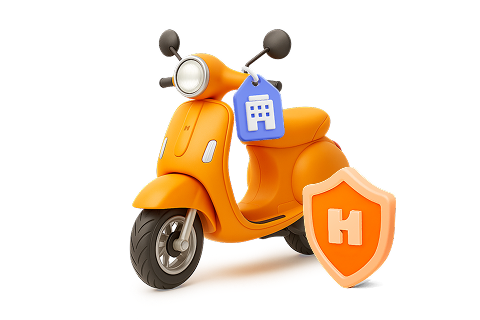
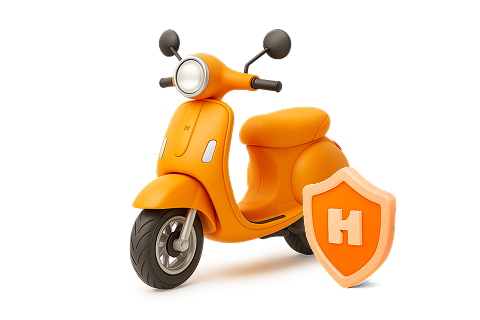
보험료 확인 관련 이미지 수정

Changed region(s): [[0.4688, 0.1875, 0.5938, 0.4688]]

diff --git a/src/index.html b/src/index.html
@@ -19802,6 +19802,7 @@
 								<li>25-09-16</li>
 								<li>25-09-17</li>
 								<li>25-09-25</li>
+								<li>25-11-17</li>
 							</ul>
 						</td>
 					</tr>
@@ -20921,6 +20922,7 @@
 								<li>25-09-03</li>
 								<li>25-09-18</li>
 								<li>25-10-20</li>
+								<li>25-11-17</li>
 							</ul>
 						</td>
 					</tr>
@@ -21987,6 +21989,7 @@
 								<li>25-09-05</li>
 								<li>25-09-25</li>
 								<li>25-10-17</li>
+								<li>25-11-17</li>
 							</ul>
 						</td>
 					</tr>
@@ -23260,6 +23263,7 @@
 								<li>25-09-01</li>
 								<li>25-09-12</li>
 								<li>25-10-17</li>
+								<li>25-11-17</li>
 							</ul>
 						</td>
 					</tr>
@@ -26530,6 +26534,7 @@
 									<li>25-09-01</li>
 									<li>25-09-05</li>
 									<li>25-10-20</li>
+									<li>25-11-17</li>
 								</ul>
 							</td>
 						</tr>
@@ -27532,6 +27537,7 @@
 									<li>25-10-20</li>
 									<li>25-11-10</li>
 									<li>25-11-13</li>
+									<li>25-11-17</li>
 								</ul>
 							</td>
 						</tr>
@@ -28581,6 +28587,7 @@
 									<li>25-09-22</li>
 									<li>25-11-10</li>
 									<li>25-11-13</li>
+									<li>25-11-17</li>
 								</ul>
 							</td>
 						</tr>

diff --git a/src/html/PR/LTCR/MPRLTCR13003000000.html b/src/html/PR/LTCR/MPRLTCR13003000000.html
@@ -50,7 +50,9 @@
 
 					<div class="guarantee_visuval">
 						<!-- s: 25-07-01 수정 -->
-						<img src="../../../images/content/ltcr/img_MPRLTCR13003000000.png" alt="배경이미지" aria-hidden="true">
+						<!-- s: 25-11-17 수정 -->
+						<img src="../../../images/content/prd/bg_intro18.png" alt="배경이미지" aria-hidden="true">
+						<!-- e: 25-11-17 수정 -->
 						<!-- e: 25-07-01 수정 -->
 						<div class="visual_msg ty2">
               <!-- (참고) 최종할인율 추후 확정 예정-->

diff --git a/src/html/PR/LTCT/MPRLTCT11003000000.html b/src/html/PR/LTCT/MPRLTCT11003000000.html
@@ -46,7 +46,9 @@
 
 					<div class="guarantee_visuval">
 						<!-- s: 25-07-01 -->
-						<img src="../../../images/content/ltct/img_MPRLTCT11003000000_01.png" alt="배경이미지" aria-hidden="true">
+						<!-- s: 25-11-17 수정 -->
+						<img src="../../../images/content/prd/bg_intro11.png" alt="배경이미지" aria-hidden="true">
+						<!-- e: 25-11-17 수정 -->
 						<!-- e: 25-07-01 -->
 						<!-- <div class="visual_msg">
 							<div class="msg_text">오프대비<br>최대 13% 할인</div>	

diff --git a/src/html/PR/LTCR/MPRLTCR12003000000.html b/src/html/PR/LTCR/MPRLTCR12003000000.html
@@ -51,7 +51,9 @@
 
 					<div class="guarantee_visuval">
 						<!-- s: 25-07-01 -->
-						<img src="../../../images/content/ltcr/img_MPRLTCR12003000000.png" alt="배경이미지" aria-hidden="true">
+						<!-- s: 25-11-17 수정 -->
+						<img src="../../../images/content/prd/bg_intro23.png" alt="배경이미지" aria-hidden="true">
+						<!-- e: 25-11-17 수정 -->
 						<!-- e: 25-07-01 -->
 						<div class="visual_msg">
               <!-- (참고) 최종할인율 추후 확정 예정-->

diff --git a/src/html/PR/LTHT/MPRLTHT10003000000.html b/src/html/PR/LTHT/MPRLTHT10003000000.html
@@ -40,7 +40,9 @@
 
 					<div class="guarantee_visuval">
 						<!-- s: 25-07-01 -->
-						<img src="../../../images/content/ltht/img_MPRLTHT10003000000_01.png" alt="배경이미지" aria-hidden="true">
+						<!-- s: 25-11-17 수정 -->
+						<img src="../../../images/content/prd/bg_intro1.png" alt="배경이미지" aria-hidden="true">
+						<!-- e: 25-11-17 수정 -->
 						<!-- e: 25-07-01 -->
 						 
 						<!-- s: 25-08-28 UXW -->

diff --git a/src/html/PR/LTDR/MPRLTDR10003000000.html b/src/html/PR/LTDR/MPRLTDR10003000000.html
@@ -48,7 +48,9 @@
 
 						<div class="guarantee_visuval">
 							<!-- s: 25-07-01 -->
-							<img src="../../../images/content/mprl/img_MPRLTDR10003000000_01.png" alt="배경이미지" aria-hidden="true">
+							<!-- s: 25-11-17 수정 -->
+							<img src="../../../images/content/prd/bg_intro8.png" alt="배경이미지" aria-hidden="true">
+							<!-- e: 25-11-17 수정 -->
 							<!-- e: 25-07-01 -->
 						</div>
 

diff --git a/src/html/PR/LTTD/MPRLTTD11003000000.html b/src/html/PR/LTTD/MPRLTTD11003000000.html
@@ -47,7 +47,9 @@
 
 						<div class="guarantee_visuval">
 							<!-- s: 25-07-01 -->
-							<img src="../../../images/content/lttd/img_MPRLTTD11003000000.png" alt="배경이미지" aria-hidden="true">
+							<!-- s: 25-11-17 수정 -->
+							<img src="../../../images/content/prd/bg_intro19.png" alt="배경이미지" aria-hidden="true">
+							<!-- e: 25-11-17 수정 -->
 							<!-- e: 25-07-01 -->
 						</div>
 

diff --git a/src/html/PR/LTCC/MPRLTCC11003000000.html b/src/html/PR/LTCC/MPRLTCC11003000000.html
@@ -52,7 +52,9 @@
 
 					<div class="guarantee_visuval">
 						<!-- s: 25-07-01 -->
-						<img src="../../../images/content/ltcc/img_MPRLTCC11003000000.png" alt="배경이미지" aria-hidden="true">
+						<!-- s: 25-11-17 수정 -->
+						<img src="../../../images/content/prd/bg_intro2.png" alt="배경이미지" aria-hidden="true">
+						<!-- e: 25-11-17 수정 -->
 						<!-- e: 25-07-01 -->
 					</div>
 
